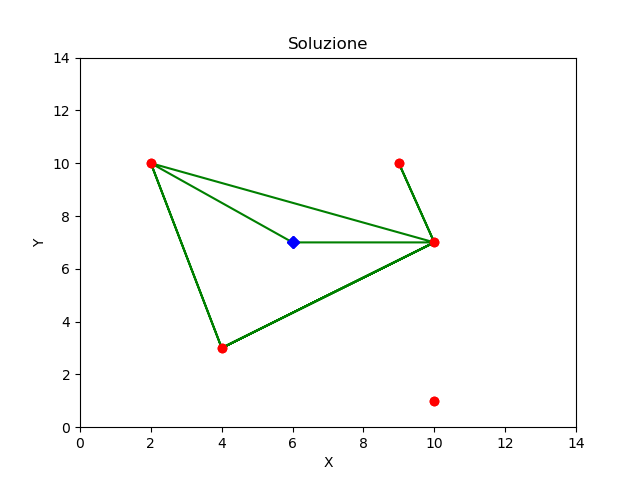
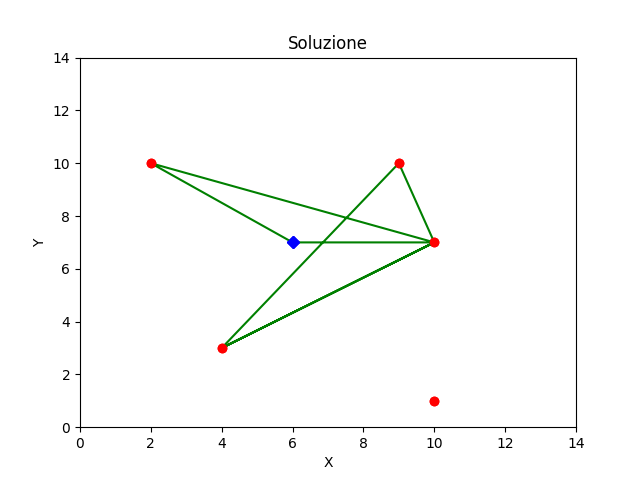
fixes

diff --git a/service/AppData.py b/service/AppData.py
@@ -4,8 +4,10 @@ class AppData:
 
     total_trasfer: int = 0
 
-    # decido se applicare la funzione 1 o 2 per la greedy dy value
-    f_1: bool = True
+    # decido se applicare la funzione 1 o 2 per la greedy by value
+    # true = 1
+    # false = 2
+    f_1: bool = False
 
     # boolean variable for files generator
     testing: bool = False
@@ -29,7 +31,7 @@ class AppData:
     transfers = []
 
     # capacity vehicle
-    capacity = 100
+    capacity = 5
 
     # quantità effettiva da scaricare
     q_d_n = 0

diff --git a/q-tsppd.py b/q-tsppd.py
@@ -32,7 +32,7 @@ if __name__ == '__main__':
 		AppData.file_nodes = 'node/n_file/nodes.txt'
 		utils.read_nodes_file()
 		# read transfers file
-		AppData.file_transfers = 'transfer/t_file/transfers.txt'
+		AppData.file_transfers = 'transfer/t_file/transfers0.txt'
 		utils.read_transfers_file()
 
 	# upgrade nodes list
